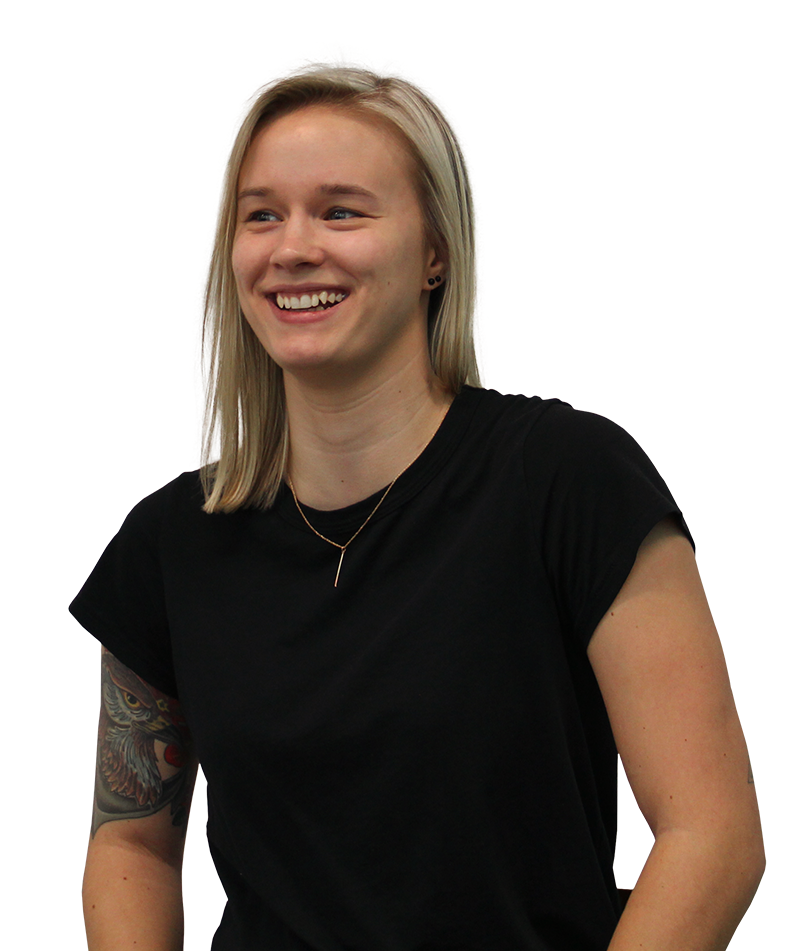
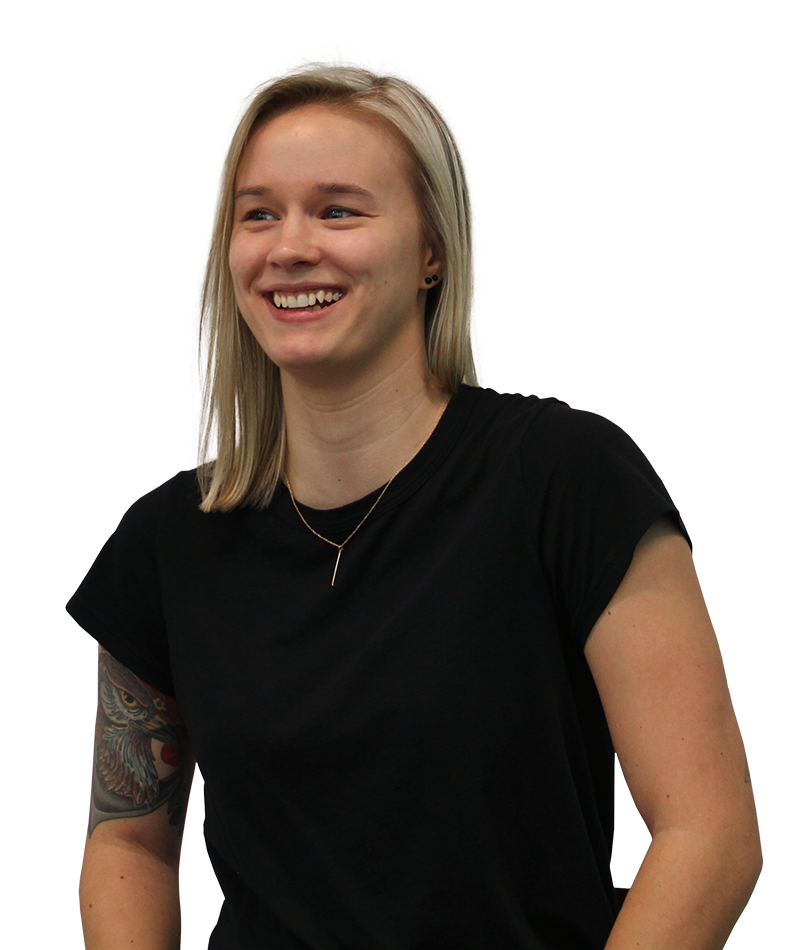
Updated images on Team pages

diff --git a/src/components/bios/bios.vue b/src/components/bios/bios.vue
@@ -449,7 +449,7 @@ export default {
 
     picture,
     img {
-      width: 90%;
+      width: 95%;
       position: relative;
       bottom: -5px;
     }
